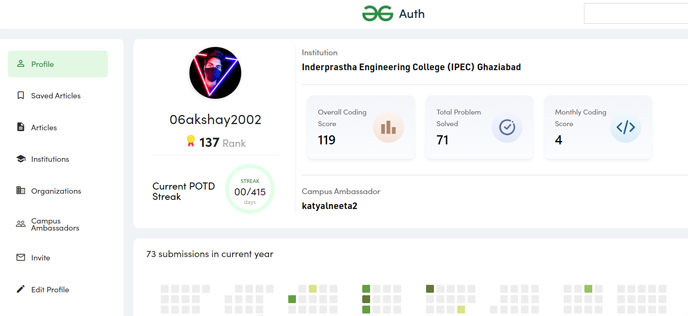
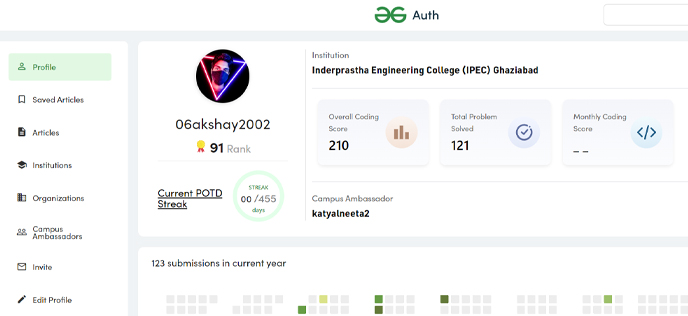
updating gfg image

diff --git a/home.html b/home.html
@@ -608,9 +608,9 @@
               </h3>
               <p class="portfolio_description">
                 <div style="margin: 5px 0px;">5 <i class="uil uil-star"></i> in Problem Solving at HackerRank.</div>
-                <div style="margin: 5px 0px;">5 <i class="uil uil-star"></i> in C, C++, Python at HackerRank.</div>
+                <div style="margin: 5px 0px;">5 <i class="uil uil-star"></i> in C, C++, Python and Java at HackerRank.</div>
                 <div style="margin: 5px 0px;">5 <i class="uil uil-star"></i> in JavaScript at HackerRank.</div>
-                <div style="margin: 5px 0px;">4 <i class="uil uil-star"></i> in Java at HackerRank.</div>
+                <!-- <div style="margin: 5px 0px;">4 <i class="uil uil-star"></i> in Java at HackerRank.</div> -->
 
               </p>
               <a href="https://www.hackerrank.com/Elite_Akshay"
@@ -653,7 +653,7 @@
                 GeeksforGeeks 
               </h3>
               <p class="portfolio_description">
-                <div style="margin: 5px 0px;">137 Institute Rank in Data Structures and Algorithms at GeeksforGeeks.</div>
+                <div style="margin: 5px 0px;">91 Institute Rank in Data Structures and Algorithms at GeeksforGeeks.</div>
 
               </p>
               <a href="https://auth.geeksforgeeks.org/user/06akshay2002"
